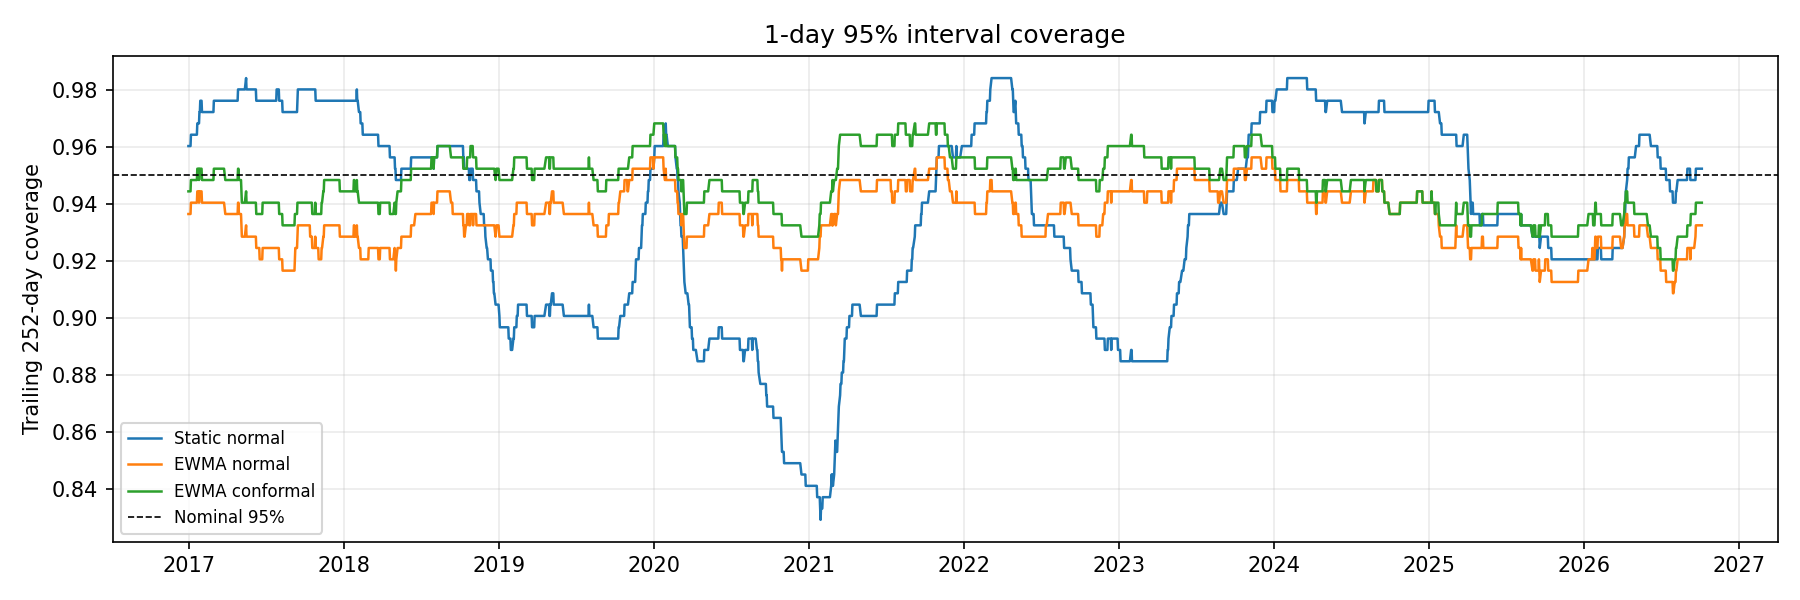
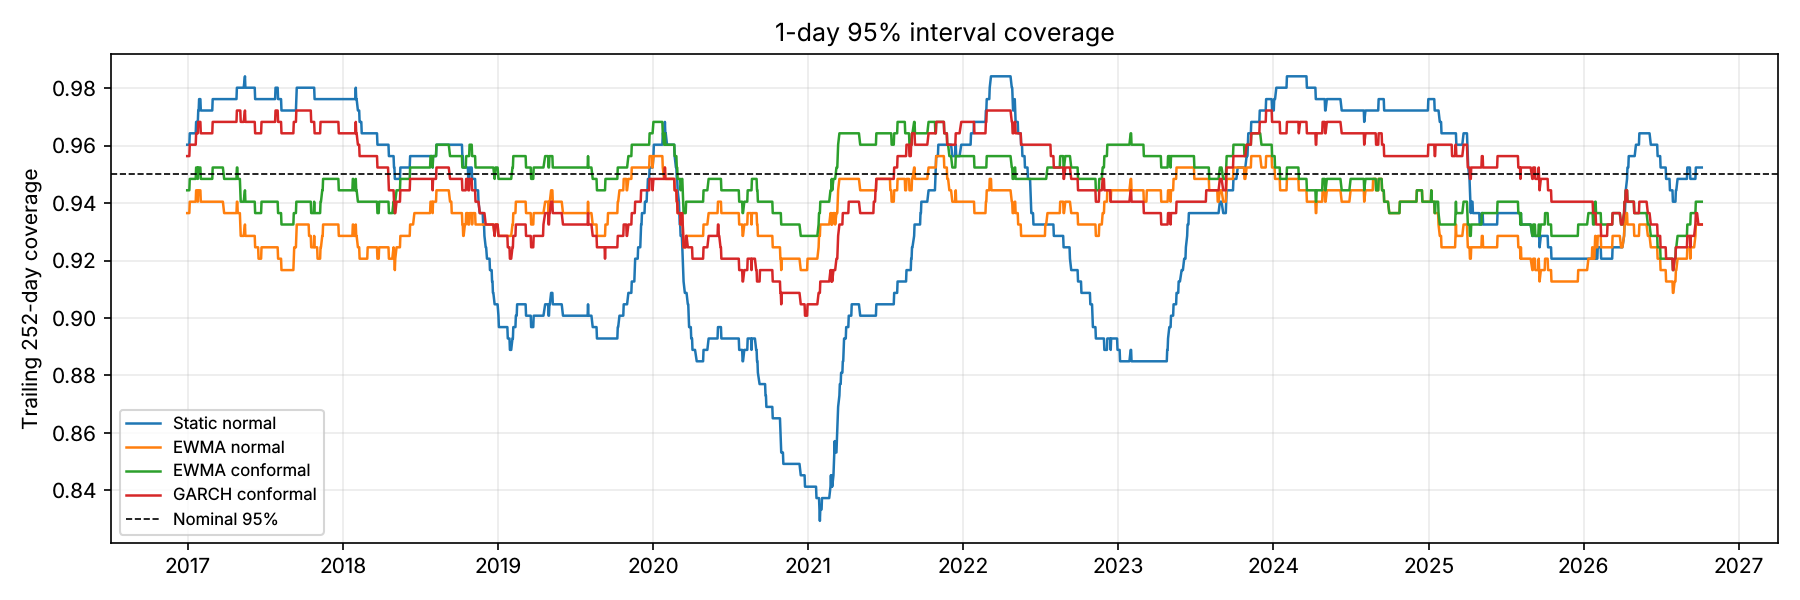
Add GARCH(1,1) volatility intervals and use GARCH-conformal live
- Forecast h-day variance with GARCH(1,1), refitted every 21 days on data
  up to the origin and reverting to its long-run level over the horizon
- GARCH-conformal gives the best 80% interval score at every horizon and
  balances 21-day coverage across volatility regimes (79.5% / 78.2% vs
  87.4% / 69.4% for EWMA-conformal)
- Extend the look-ahead test to the GARCH bounds (mutation-checked)
- Switch the scheduled live forecast to GARCH-conformal intervals

Claude-Session: https://claude.ai/code/session_01UW7QCdtPebU6Vpg9vdf9ep

diff --git a/src/aapl_forecast/garch.py b/src/aapl_forecast/garch.py
@@ -1,0 +1,86 @@
+"""GARCH(1,1) volatility forecasts whose h-day horizon reverts towards the long-run level.
+
+Scaling today's EWMA volatility by sqrt(h) assumes volatility stays where it is for the
+whole horizon. GARCH instead forecasts each future day's variance decaying geometrically,
+at rate alpha + beta, towards the unconditional variance, and sums them over the horizon.
+Parameters are re-estimated every ``refit_every`` trading days on returns up to the origin.
+"""
+
+import warnings
+
+from arch import arch_model
+import numpy as np
+import pandas as pd
+
+from aapl_forecast.features import log_returns
+
+
+SCALE = 100.0  # arch optimises better on percentage returns
+
+
+def fit_garch(returns: np.ndarray) -> dict:
+    """Maximum-likelihood GARCH(1,1) with a constant mean on returns observed so far."""
+    with warnings.catch_warnings():
+        warnings.simplefilter("ignore")
+        result = arch_model(returns * SCALE, mean="Constant", vol="GARCH", p=1, q=1, dist="normal").fit(
+            disp="off", options={"maxiter": 500}
+        )
+    params = result.params
+    return {
+        "mu": float(params["mu"]) / SCALE,
+        "omega": float(params["omega"]) / SCALE**2,
+        "alpha": float(params["alpha[1]"]),
+        "beta": float(params["beta[1]"]),
+    }
+
+
+def next_day_variance(returns: np.ndarray, params: dict, end: int) -> np.ndarray:
+    """One-step-ahead variance for days 1..end, filtered with returns before each day."""
+    omega, alpha, beta, mu = params["omega"], params["alpha"], params["beta"], params["mu"]
+    residuals = returns[:end] - mu
+    variance = np.empty(end + 1)
+    variance[0] = np.var(residuals[: min(end, 252)]) if end > 1 else omega
+    for t in range(end):
+        variance[t + 1] = omega + alpha * residuals[t] ** 2 + beta * variance[t]
+    return variance
+
+
+def horizon_variance(next_variance: float, params: dict, horizon: int) -> float:
+    """Sum of the 1..h-day-ahead variance forecasts, reverting at rate alpha + beta."""
+    persistence = params["alpha"] + params["beta"]
+    long_run = params["omega"] / max(1e-9, 1 - persistence)
+    weights = persistence ** np.arange(horizon)
+    return float(np.sum(long_run + weights * (next_variance - long_run)))
+
+
+def garch_scale(
+    prices: pd.DataFrame,
+    horizons: tuple[int, ...],
+    first_origin: int,
+    refit_every: int = 21,
+    min_history: int = 252,
+) -> tuple[dict[int, np.ndarray], list[dict]]:
+    """h-day volatility forecast at every origin from ``min_history`` on.
+
+    Origins before ``first_origin`` are also filled (needed as matured history for conformal
+    intervals) with the parameters fitted at the first origin, so they never use later data
+    than the origins that consume them.
+    """
+    returns = log_returns(prices).to_numpy()
+    returns[0] = 0.0
+    n = len(prices)
+    scales = {h: np.full(n, np.nan) for h in horizons}
+    fits = []
+    refits = list(range(first_origin, n, refit_every))
+    start = min_history
+    for k, fit_at in enumerate(refits):
+        params = fit_garch(returns[1: fit_at + 1])  # returns observed by the close of fit_at
+        fits.append({"fit_at": str(prices.index[fit_at].date()), **params})
+        block_end = refits[k + 1] if k + 1 < len(refits) else n
+        block_start = start if k == 0 else fit_at
+        # variance[t + 1] uses returns up to t, so it is the forecast made at the close of t.
+        variance = next_day_variance(returns, params, block_end)
+        for i in range(block_start, block_end):
+            for horizon in horizons:
+                scales[horizon][i] = np.sqrt(horizon_variance(variance[i + 1], params, horizon))
+    return scales, fits

diff --git a/src/aapl_forecast/intervals.py b/src/aapl_forecast/intervals.py
@@ -9,9 +9,11 @@ import pandas as pd
 from scipy import stats
 
 from aapl_forecast.features import ewma_volatility, log_returns, target
+from aapl_forecast.garch import garch_scale
 
 
 LEVELS = (0.80, 0.95)
+METHODS = ["static", "ewma", "conformal", "garch", "garch_conformal"]
 CONFORMAL_WINDOW = 1000
 
 
@@ -40,13 +42,17 @@ def interval_forecasts(
     horizons: tuple[int, ...],
     levels: tuple[float, ...] = LEVELS,
 ) -> pd.DataFrame:
-    """Static-normal, EWMA-normal and EWMA-conformal intervals for each origin."""
+    """Static-normal, EWMA (normal, conformal) and GARCH (normal, conformal) intervals."""
     vol = ewma_volatility(log_returns(prices)).to_numpy()
     first = int(prices.index.searchsorted(pd.Timestamp(start)))
     origins = np.arange(first, len(prices))
+    garch_scales, _ = garch_scale(prices, horizons, first)
     frames = []
     for horizon in horizons:
         y, scale, standardized = standardized_history(prices, horizon)
+        g_scale = garch_scales[horizon]
+        with np.errstate(divide="ignore", invalid="ignore"):
+            g_standardized = y / g_scale
         for level in levels:
             z = stats.norm.ppf(0.5 + level / 2)
             rows = []
@@ -54,13 +60,16 @@ def interval_forecasts(
                 history = y[1: i - horizon + 1]  # targets observed by the close of i
                 static = z * history[~np.isnan(history)].std(ddof=1)
                 lo_c, hi_c = conformal_bounds(standardized, scale, i, horizon, level)
+                lo_g, hi_g = conformal_bounds(g_standardized, g_scale, i, horizon, level)
                 rows.append(
-                    (prices.index[i], -static, static, -z * scale[i], z * scale[i], lo_c, hi_c, y[i], vol[i])
+                    (prices.index[i], -static, static, -z * scale[i], z * scale[i], lo_c, hi_c,
+                     -z * g_scale[i], z * g_scale[i], lo_g, hi_g, y[i], vol[i])
                 )
             block = pd.DataFrame(
                 rows,
                 columns=["origin", "static_lo", "static_hi", "ewma_lo", "ewma_hi",
-                         "conformal_lo", "conformal_hi", "actual", "ewma_vol"],
+                         "conformal_lo", "conformal_hi", "garch_lo", "garch_hi",
+                         "garch_conformal_lo", "garch_conformal_hi", "actual", "ewma_vol"],
             )
             block["horizon"] = horizon
             block["level"] = level
@@ -96,7 +105,7 @@ def calibration_table(intervals: pd.DataFrame) -> pd.DataFrame:
     rows = []
     for (horizon, level), group in scored.groupby(["horizon", "level"]):
         high_vol = group["ewma_vol"] >= group["ewma_vol"].expanding().median()
-        for method in ["static", "ewma", "conformal"]:
+        for method in METHODS:
             lo, hi = group[f"{method}_lo"], group[f"{method}_hi"]
             inside = (group["actual"] >= lo) & (group["actual"] <= hi)
             rows.append(

diff --git a/scripts/forecast_latest.py b/scripts/forecast_latest.py
@@ -18,14 +18,18 @@ import pandas as pd
 
 from aapl_forecast.backtest import HORIZONS
 from aapl_forecast.data import download_prices, load_prices
-from aapl_forecast.intervals import LEVELS, conformal_bounds, standardized_history
+from aapl_forecast.features import target
+from aapl_forecast.garch import garch_scale
+from aapl_forecast.intervals import LEVELS, conformal_bounds
 
 
 ROOT = Path(__file__).resolve().parents[1]
 LOG = ROOT / "outputs" / "live" / "forecast_log.csv"
 SUMMARY = ROOT / "outputs" / "live" / "track_record.csv"
+METHOD = "garch_conformal"  # best interval score and balanced regime coverage in the backtest
+BACKTEST_START = "2016-01-01"  # same refit schedule as the backtest, so live = backtest method
 COLUMNS = [
-    "issued_at_utc", "origin", "origin_close", "horizon", "level",
+    "issued_at_utc", "method", "origin", "origin_close", "horizon", "level",
     "lower_return", "upper_return", "lower_price", "upper_price",
     "target_date", "realized_return", "inside",
 ]
@@ -34,14 +38,19 @@ COLUMNS = [
 def issue(prices: pd.DataFrame, issued_at: str) -> pd.DataFrame:
     i = len(prices) - 1
     close = float(prices["Close"].iloc[i])
+    first = min(int(prices.index.searchsorted(pd.Timestamp(BACKTEST_START))), i)
+    scales, _ = garch_scale(prices, HORIZONS, first)
     rows = []
     for horizon in HORIZONS:
-        _, scale, standardized = standardized_history(prices, horizon)
+        scale = scales[horizon]
+        with np.errstate(divide="ignore", invalid="ignore"):
+            standardized = target(prices, horizon).to_numpy() / scale
         for level in LEVELS:
             lo, hi = conformal_bounds(standardized, scale, i, horizon, level)
             rows.append(
                 {
                     "issued_at_utc": issued_at,
+                    "method": METHOD,
                     "origin": prices.index[i].date().isoformat(),
                     "origin_close": round(close, 4),
                     "horizon": horizon,

diff --git a/tests/test_evaluation.py b/tests/test_evaluation.py
@@ -122,3 +122,24 @@ class ValidationTests(unittest.TestCase):
 
 if __name__ == "__main__":
     unittest.main()
+
+
+class GarchTests(unittest.TestCase):
+    def test_horizon_variance_reverts_to_long_run(self):
+        from aapl_forecast.garch import horizon_variance
+
+        params = {"omega": 2e-6, "alpha": 0.08, "beta": 0.9, "mu": 0.0}
+        long_run = 2e-6 / 0.02
+        self.assertAlmostEqual(horizon_variance(4e-4, params, 1), 4e-4)
+        # From a high starting variance, a 1,000-day average is mostly back at the long run.
+        average = horizon_variance(4 * long_run, params, 1000) / 1000
+        self.assertLess(average, 1.3 * long_run)
+        self.assertGreater(average, long_run)
+
+    def test_fit_recovers_simulated_persistence(self):
+        from aapl_forecast.features import log_returns
+        from aapl_forecast.garch import fit_garch
+
+        returns = log_returns(garch_prices(n=4000, seed=5)).to_numpy()[1:]
+        params = fit_garch(returns)
+        self.assertAlmostEqual(params["alpha"] + params["beta"], 0.98, delta=0.03)

diff --git a/scripts/run_backtest.py b/scripts/run_backtest.py
@@ -45,7 +45,8 @@ def plot_rolling_coverage(intervals: pd.DataFrame, path: Path) -> None:
     group = intervals[(intervals.horizon == 1) & (intervals.level == 0.95)].dropna(subset=["actual"])
     group = group.set_index("origin")
     fig, ax = plt.subplots(figsize=(12, 4))
-    for method, label in [("static", "Static normal"), ("ewma", "EWMA normal"), ("conformal", "EWMA conformal")]:
+    for method, label in [("static", "Static normal"), ("ewma", "EWMA normal"), ("conformal", "EWMA conformal"),
+                          ("garch_conformal", "GARCH conformal")]:
         inside = (group["actual"] >= group[f"{method}_lo"]) & (group["actual"] <= group[f"{method}_hi"])
         ax.plot(inside.rolling(252).mean(), label=label, linewidth=1.2)
     ax.axhline(0.95, color="black", linestyle="--", linewidth=0.8, label="Nominal 95%")

diff --git a/tests/test_backtest.py b/tests/test_backtest.py
@@ -53,7 +53,8 @@ class LookAheadTests(unittest.TestCase):
         original = interval_forecasts(self.prices, START, (1, 5))
         changed = interval_forecasts(self.changed, START, (1, 5))
         cutoff = self.prices.index[self.cut]
-        bounds = ["static_lo", "static_hi", "ewma_lo", "ewma_hi", "conformal_lo", "conformal_hi"]
+        bounds = ["static_lo", "static_hi", "ewma_lo", "ewma_hi", "conformal_lo", "conformal_hi",
+                  "garch_lo", "garch_hi", "garch_conformal_lo", "garch_conformal_hi"]
         pd.testing.assert_frame_equal(
             original.loc[original.origin <= cutoff, bounds].reset_index(drop=True),
             changed.loc[changed.origin <= cutoff, bounds].reset_index(drop=True),

diff --git a/README.md b/README.md
@@ -9,7 +9,7 @@ A forecasting study that answers two separate questions honestly. The results ar
 
 The two questions are kept apart because they usually have different answers. Direction is close to unpredictable for a liquid large-cap stock. Volatility clusters, so uncertainty can be forecast.
 
-**Stack:** Python · pandas · NumPy · SciPy · scikit-learn · Matplotlib · GitHub Actions
+**Stack:** Python · pandas · NumPy · SciPy · scikit-learn · arch (GARCH) · Matplotlib · GitHub Actions
 
 ## Results (AAPL, 2,705 daily origins, Jan 2016 – Oct 2026)
 
@@ -38,13 +38,23 @@ Snapshot: Yahoo split- and dividend-adjusted daily bars, 2010-01-04 to 2026-10-0
 |---|---:|---:|---:|---:|---:|
 | Static normal | 83.7% | 93.6% | 90.7% | 97.0% | 0.002 |
 | EWMA normal | 82.8% | 93.6% | 94.5% | 92.5% | 0.001 |
-| **EWMA conformal** | **80.3%** | **94.7%** | **96.2%** | **93.0%** | **0.50** |
+| EWMA conformal | 80.3% | 94.7% | 96.2% | 93.0% | 0.50 |
+| GARCH normal | 83.7% | 94.6% | 94.5% | 94.7% | 0.35 |
+| **GARCH conformal** | **80.3%** | **94.6%** | **94.7%** | **94.6%** | **0.35** |
 
 ![Trailing 252-day coverage of 1-day 95% intervals](outputs/backtest/rolling_coverage.png)
 
-- **Only the conformal interval passes the coverage test.** Kupiec p = 0.74 at 80% and 0.50 at 95%. The static and EWMA-normal intervals are rejected at both levels.
+- **Only the conformal intervals pass the coverage test at both levels.** Kupiec p = 0.74 at 80% for both conformal methods. The static and EWMA-normal intervals are rejected at both levels; GARCH-normal passes at 95% but over-covers at 80%.
 - **A constant-width interval fails when it matters.** It covers 90.7% instead of 95% in volatile periods, and its trailing-year coverage fell to 83% in early 2021. It over-covers in calm periods.
-- **At 21 days the picture changes.** Conformal coverage is right on average (79.1% / 95.1%) but uneven by regime: 87.4% in high-volatility periods and 69.4% in low-volatility periods at the 80% level. The static interval has the better interval score at 21 days (both levels) and at 5 days for 95%. Volatility mean-reverts over a month, and scaling today's EWMA volatility by √h ignores that. A volatility model with mean reversion (e.g. GARCH) is the natural next step for longer horizons.
+- **Mean-reverting volatility fixes the long horizons.** Scaling today's EWMA volatility by √h assumes volatility stays put for the whole month. EWMA-conformal intervals were right on average at 21 days, but they covered 87.4% in volatile periods and 69.4% in calm ones (80% target), and the plain static interval beat them on interval score. A GARCH(1,1), refitted every 21 days on data up to the origin, forecasts each day's variance decaying back towards its long-run level:
+
+| 21-day, 80% target | Coverage | High volatility | Low volatility | Interval score (lower is better) |
+|---|---:|---:|---:|---:|
+| Static normal | 76.5% | 72.1% | 81.6% | 0.281 |
+| EWMA conformal | 79.1% | 87.4% | 69.4% | 0.297 |
+| **GARCH conformal** | **78.9%** | **79.5%** | **78.2%** | **0.278** |
+
+GARCH-conformal has the best interval score at 80% for every horizon. Plain GARCH has the best at 95%. The live forecast therefore uses GARCH-conformal.
 
 Full tables: [`accuracy.csv`](outputs/backtest/accuracy.csv) · [`interval_calibration.csv`](outputs/backtest/interval_calibration.csv) · [all forecasts](outputs/backtest/predictions.csv.gz) · [run manifest](outputs/backtest/run_manifest.json).
 
@@ -85,7 +95,11 @@ flowchart LR
 - **Significance:** Diebold–Mariano with the Harvey–Leybourne–Newbold small-sample correction. A long-run variance up to lag *h − 1* accounts for overlapping multi-day errors.
 - **Direction:** hit rate, compared with the trivial "always up" rate over the same period. A directional claim must beat that rate, not 50%.
 - **Intervals at 80% and 95%:**
-  - Three methods are compared, all centred on the random walk: static normal, EWMA normal (RiskMetrics λ = 0.94), and EWMA-scaled split-conformal (empirical quantiles of the last 1,000 matured standardized outcomes).
+  - Five methods are compared, all centred on the random walk:
+    - static normal;
+    - EWMA normal (RiskMetrics λ = 0.94);
+    - GARCH(1,1) normal, refitted every 21 days with the h-day variance reverting to its long-run level;
+    - two split-conformal versions, which scale empirical quantiles of the last 1,000 matured standardized outcomes by EWMA or by GARCH volatility.
   - Each is scored on coverage overall and in the high- and low-volatility halves, on mean width and on the Winkler interval score.
   - Kupiec's proportion-of-failures test is reported at h = 1, the only horizon where outcomes are independent.
 
@@ -94,7 +108,7 @@ flowchart LR
 [`live-forecast.yml`](.github/workflows/live-forecast.yml) runs after every US close:
 
 1. Downloads a fresh snapshot.
-2. Issues 1-, 5- and 21-day conformal intervals at 80% and 95%.
+2. Issues 1-, 5- and 21-day GARCH-conformal intervals at 80% and 95%.
 3. Scores every earlier forecast whose horizon has passed.
 4. Commits the result to [`outputs/live/forecast_log.csv`](outputs/live/) and [`track_record.csv`](outputs/live/).
 
@@ -109,7 +123,7 @@ The test suite also runs the pipeline on simulated GARCH(1,1) prices, where the 
 ```bash
 python -m venv .venv && source .venv/bin/activate
 python -m pip install -r requirements.txt
-make check        # lint + evidence + 22 tests (~5 s)
+make check        # lint + evidence + 24 tests (~10 s)
 make data         # download and fingerprint the snapshot (Yahoo, with Stooq as fallback)
 make backtest     # ~2 min; writes outputs/backtest/
 make forecast     # issue and score live forecasts
@@ -123,7 +137,8 @@ src/aapl_forecast/
 ├── features.py      # Features known at the close; h-day targets
 ├── backtest.py      # Rolling-origin backtest with matured-label refits
 ├── evaluation.py    # Accuracy vs random walk, Diebold–Mariano
-└── intervals.py     # Static / EWMA / conformal intervals, coverage, Kupiec
+├── garch.py         # GARCH(1,1) h-day volatility with mean reversion
+└── intervals.py     # Static / EWMA / GARCH, normal and conformal intervals, coverage, Kupiec
 scripts/             # download_data, run_backtest, forecast_latest
 tests/               # look-ahead, statistics, validation and live-scoring tests
 coursework/          # Original January-window coursework experiment (archived)

diff --git a/VALIDATION.md b/VALIDATION.md
@@ -27,3 +27,14 @@ Historical records are not labelled as freshly reproduced results.
 
 - The first manual `Live forecast` run (16:51 UTC, during US trading hours) used an intraday price as the 2026-10-08 close. The first backtest snapshot (downloaded 16:37 UTC) also ended with that partial bar, which entered one scored 1-day outcome.
[1 lines of base64/hex data omitted]
+
+## GARCH volatility intervals — 2026-10-08
+
+- Added GARCH(1,1) h-day volatility, refitted every 21 trading days on returns up to the origin, with the variance forecast reverting geometrically to its long-run level. GARCH-normal and GARCH-conformal intervals were added to the comparison.
+- The look-ahead test covers the GARCH bounds. A deliberate leak (fitting on all returns) made it fail.
+- Rerun on the committed snapshot (SHA-256 `c9c5e42c…`):
+  - Point forecasts are byte-identical to the previous run.
+  - GARCH-conformal has the best interval score at 80% for all three horizons, and GARCH-normal the best at 95%.
+  - At 21 days and 80%, GARCH-conformal covers 79.5% in high-volatility and 78.2% in low-volatility periods, against 87.4% and 69.4% for EWMA-conformal.
+- The live forecast now issues GARCH-conformal intervals and records the method in each log row.
+- 24 tests pass and Ruff passes.
